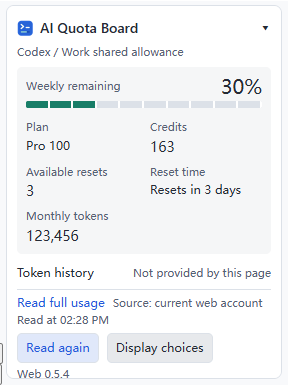
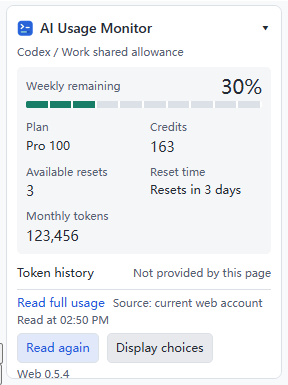
Use native AI Usage Monitor screenshots and document the one-time upgrade

Changed region(s): [[0.1875, 0.0623, 0.5312, 0.0935], [0.25, 0.8104, 0.3125, 0.8416]]

diff --git a/README.md b/README.md
@@ -17,6 +17,8 @@ An unofficial quota and token usage companion for Codex desktop, with a separate
 
 [安装与使用指南](docs/USER-GUIDE.md) · [安全说明](SECURITY.md) · [MIT License](LICENSE)
 
+从旧名称升级，请从上表手动下载一次。Windows 选择原安装目录；Mac 先退出旧版，再将新应用拖入“应用程序”；Chrome 在原扩展目录替换文件并重新加载。
+
 ## 界面 Screenshots
 
 以下为运行界面的示例数据，不代表真实账户额度。
